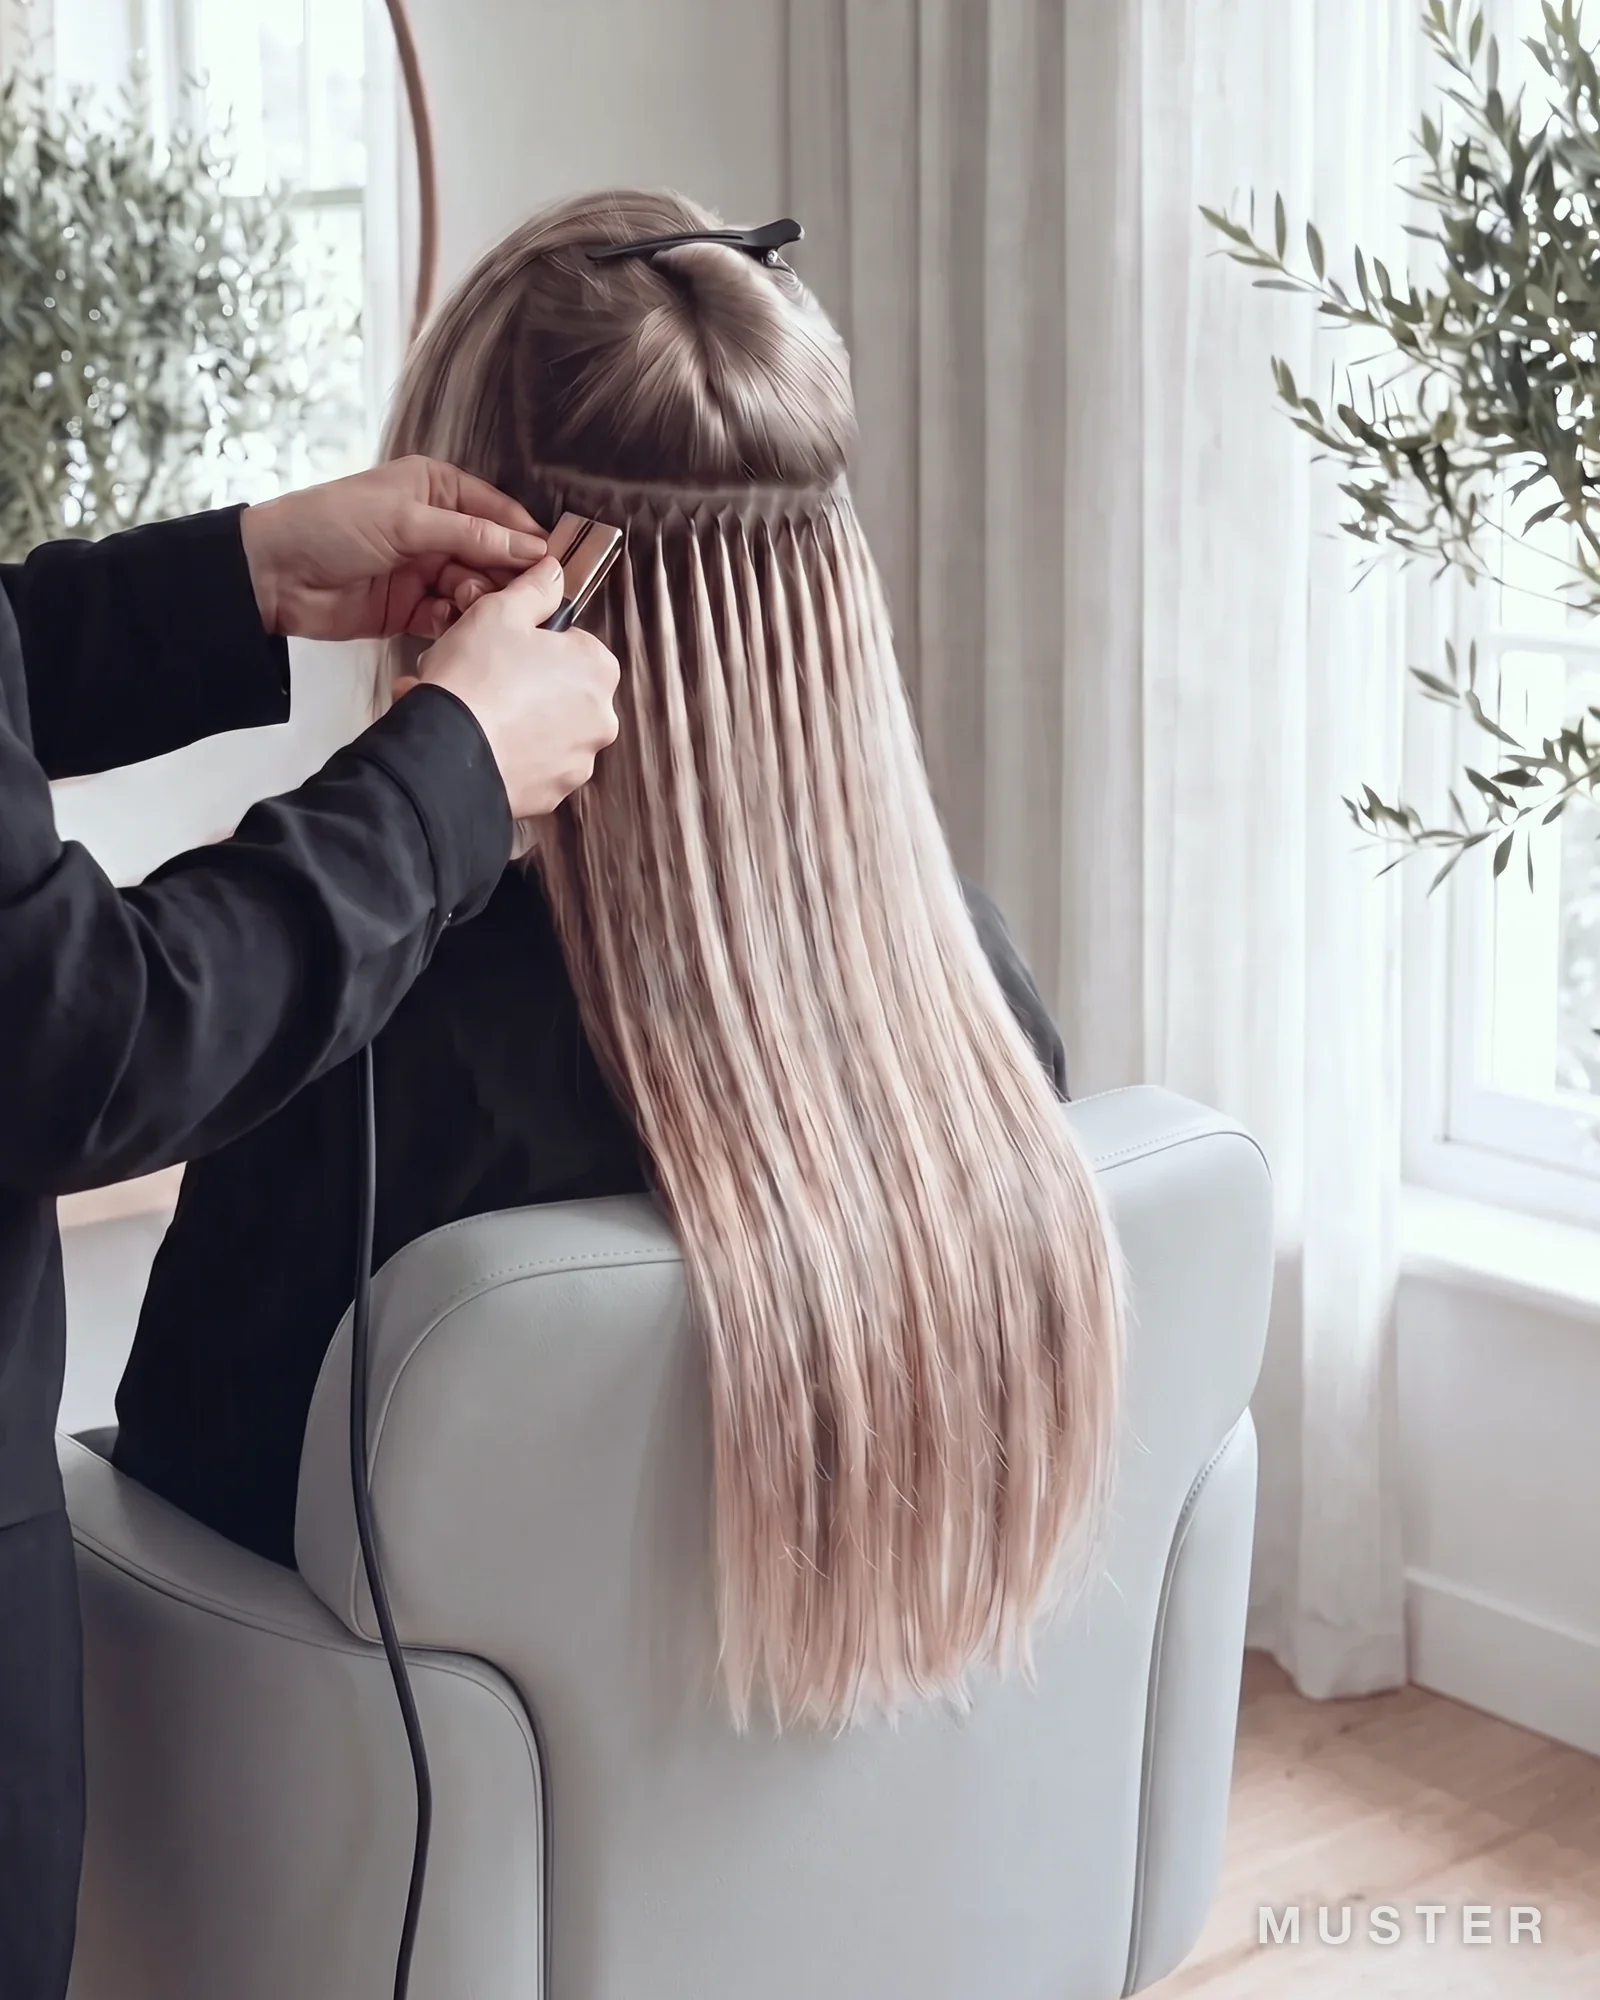
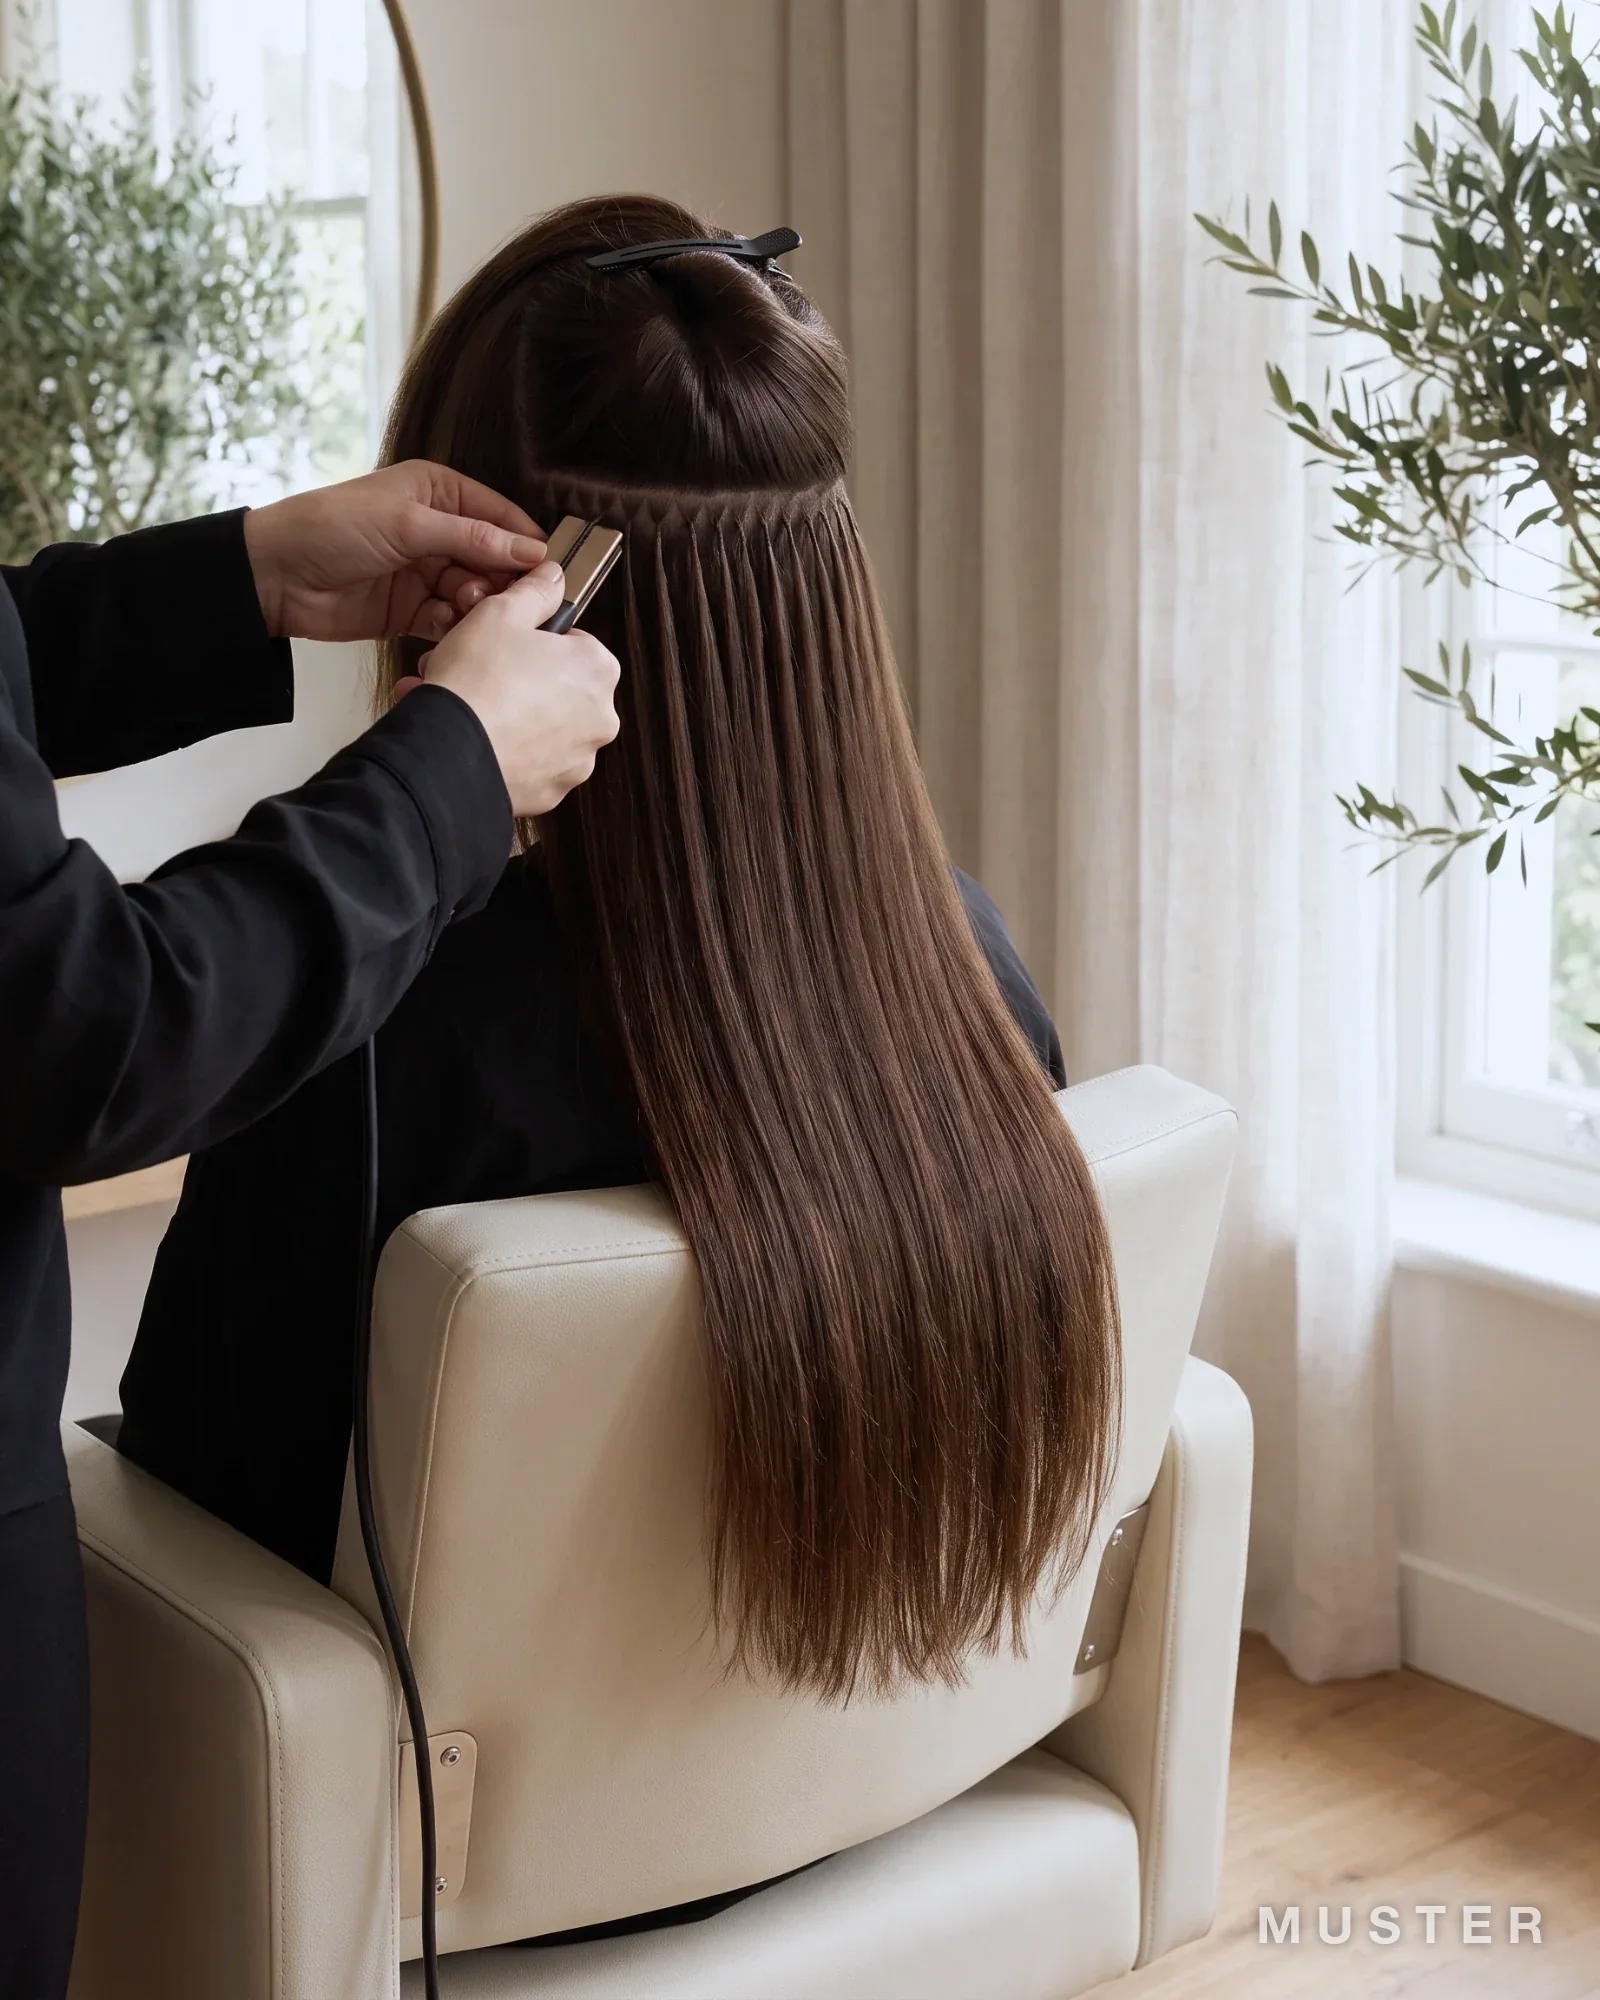
Update 26.10: Extensions-Bild v5, Button-Hover einheitlich

diff --git a/index.html b/index.html
@@ -1166,8 +1166,8 @@ dialog.legal.ds .todo{background:#f1f3f5;border-radius:4px;padding:0 4px;color:#
 .jubi span{font-size:14px;color:var(--muted)}
 /* Jubiläums-Streifen: nur grau, ohne Rosa (Julia 26.10) */
 .promo{background:linear-gradient(90deg,#eef1f4,#f8f9fa 55%,#eef1f4);border-top:1px solid #e4e8ec;border-bottom:1px solid #e4e8ec}
-/* Hero-Buttons: Hover weiß statt rosa, wie die Adresse (Julia 26.10) */
-.qb #qbgo:hover,.qb .qblink:hover{background:#fff!important;border-color:var(--champ)!important;box-shadow:0 12px 24px -14px rgba(40,45,50,.35)!important}
+/* Hero, Aktion, Senioren: Hover wie „Termin buchen“ oben (Julia 26.10) */
+.qb #qbgo:hover,.qb .qblink:hover,.promo .btn:hover,.sbtns .btn:hover{background:linear-gradient(180deg,#ffffff,#e6ecf1)!important;border-color:#8a96a2!important;color:var(--ink)!important;box-shadow:0 12px 24px -14px rgba(40,55,70,.45)!important}
 </style>
 <script type="application/ld+json">
 {"@context":"https://schema.org","@type":["HairSalon","BeautySalon"],
@@ -1274,7 +1274,7 @@ dialog.legal.ds .todo{background:#f1f3f5;border-radius:4px;padding:0 4px;color:#
         <button type="button" class="card svc reveal" data-open="farbe" aria-haspopup="dialog"><span class="ph" role="img" aria-label="Haare färben und Strähnen" style="background-image:url(m_color.webp?v=8)"><span class="wm" aria-hidden="true">Muster</span></span><span class="bd"><span class="st">Farbe &amp; Strähnen</span><span class="from">ab 39,90&nbsp;€</span><span class="more">Alle Preise &amp; mehr →</span></span></button>
         <button type="button" class="card svc reveal" data-open="braut" aria-haspopup="dialog"><span class="ph" role="img" aria-label="Braut mit Hochsteckfrisur" style="background-image:url(m_bridal.webp?v=7)"><span class="wm" aria-hidden="true">Muster</span></span><span class="bd"><span class="st">Braut &amp; Hochsteckfrisuren</span><span class="from">Beratung kostenlos</span><span class="more">Alle Preise &amp; mehr →</span></span></button>
         <button type="button" class="card svc reveal" data-open="keratin" aria-haspopup="dialog"><span class="ph" role="img" aria-label="Glattes, glänzendes Haar nach der Keratin-Glättung" style="background-image:url(m_extensions.webp?v=7)"><span class="wm" aria-hidden="true">Muster</span></span><span class="bd"><span class="st">Keratin-Glättung</span><span class="from">239&nbsp;€</span><span class="more">Alle Preise &amp; mehr →</span></span></button>
-        <button type="button" class="card svc reveal" data-open="ext" aria-haspopup="dialog"><span class="ph" role="img" aria-label="Tape-Extensions werden eingesetzt" style="background-image:url(m_svc_ext.webp?v=4)"><span class="wm" aria-hidden="true">Muster</span></span><span class="bd"><span class="st">Extensions</span><span class="from">ab 119&nbsp;€</span><span class="more">Alle Preise &amp; mehr →</span></span></button>
+        <button type="button" class="card svc reveal" data-open="ext" aria-haspopup="dialog"><span class="ph" role="img" aria-label="Tape-Extensions werden eingesetzt" style="background-image:url(m_svc_ext.webp?v=5)"><span class="wm" aria-hidden="true">Muster</span></span><span class="bd"><span class="st">Extensions</span><span class="from">ab 119&nbsp;€</span><span class="more">Alle Preise &amp; mehr →</span></span></button>
         <button type="button" class="card svc reveal" data-open="brauen" aria-haspopup="dialog"><span class="ph" role="img" aria-label="Make-up wird aufgetragen" style="background-image:url(m_svc_makeup.webp?v=5)"><span class="wm" aria-hidden="true">Muster</span></span><span class="bd"><span class="st">Brauen, Wimpern &amp; Make-up</span><span class="from">ab 9,50&nbsp;€</span><span class="more">Alle Preise &amp; mehr →</span></span></button>
         <button type="button" class="card svc reveal" data-open="makeup" aria-haspopup="dialog"><span class="ph" role="img" aria-label="Permanent-Make-up der Augenbrauen" style="background-image:url(m_svc_pmu.webp?v=1)"><span class="wm" aria-hidden="true">Muster</span></span><span class="bd"><span class="st">Permanent-Make-up</span><span class="from">ab 350&nbsp;€</span><span class="more">Alle Preise &amp; mehr →</span></span></button>
         <button type="button" class="card svc reveal" data-open="wax" aria-haspopup="dialog"><span class="ph" role="img" aria-label="Waxing, glatte Haut" style="background-image:url(m_svc_waxing_B.webp?v=4)"><span class="wm" aria-hidden="true">Muster</span></span><span class="bd"><span class="st">Waxing</span><span class="from">ab 25&nbsp;€</span><span class="more">Alle Preise &amp; mehr →</span></span></button>
@@ -1670,7 +1670,7 @@ const SV={
  farbe:{t:"Farbe & Strähnen",img:"color",v:8,cat:"Farbe",i:"Ansatz, Glossing, Nachfärben oder Strähnen. Wir färben mit GLYNT.",g:[["","Farbe"],["Angebote","Angebote",n=>/^Strähnen/.test(n)]]},
  braut:{t:"Braut & Hochsteckfrisuren",img:"bridal",v:7,cat:"Braut",i:"Kostenlose Beratung, Probefrisur und Probe-Make-up. Hochsteckfrisuren auch für Feiern und besondere Anlässe.",g:[["Braut","Braut"],["Hochsteckfrisur","Styling",n=>n==="Hochsteckfrisur"]]},
  keratin:{t:"Keratin-Glättung",img:"extensions",v:7,cat:"Keratin & Extensions",svc:"Keratin-Glättung Komplettpaket",i:"Seidig glattes, glänzendes Haar. Dafür setzen wir auf bewährte Premium-Produkte, zum Beispiel von Cocochoco.",g:[["","Keratin & Extensions",n=>/^Keratin/.test(n)]]},
- ext:{t:"Extensions",img:"svc_ext",v:4,cat:"Keratin & Extensions",i:"Mehr Länge und Fülle mit Bonding-, Tape- und Nanoring-Extensions. Für Tape-Extensions arbeiten wir mit FLAUNT by Paul Mitchell, in drei Längen. Wir beraten euch gern, welche Methode zu eurem Haar passt.",g:[["","Keratin & Extensions",n=>!/^Keratin/.test(n)]]},
+ ext:{t:"Extensions",img:"svc_ext",v:5,cat:"Keratin & Extensions",i:"Mehr Länge und Fülle mit Bonding-, Tape- und Nanoring-Extensions. Für Tape-Extensions arbeiten wir mit FLAUNT by Paul Mitchell, in drei Längen. Wir beraten euch gern, welche Methode zu eurem Haar passt.",g:[["","Keratin & Extensions",n=>!/^Keratin/.test(n)]]},
  brauen:{t:"Brauen, Wimpern & Make-up",img:"svc_makeup",v:5,cat:"Beauty",i:"Brauen zupfen, auch in Fadentechnik, Brauen und Wimpern färben. Make-up für den Tag und für den Abend.",g:[["Brauen & Wimpern","Beauty",n=>/^(Augenbrauen|Wimpern|Kombi)/.test(n)],["Gesicht","Beauty",n=>/^Gesicht/.test(n)],["Make-up","Beauty",n=>/Make-up$/.test(n)&&!/Permanent/.test(n)]]},
  makeup:{t:"Permanent-Make-up",img:"svc_pmu",v:1,cat:"Beauty",i:"Augenbrauen und Lippen, die lange schön bleiben. Jede Behandlung hat zwei Sitzungen.",g:[["Augenbrauen","Beauty",n=>/^Permanent-Make-up Augenbrauen/.test(n)],["Lippen","Beauty",n=>/^Permanent-Make-up Lippen/.test(n)]]},
  wax:{t:"Waxing",img:"svc_waxing_B",v:4,cat:"Beauty",i:"Professionelle Haarentfernung für ein gepflegtes und glattes Hautgefühl.",g:[["","Beauty",n=>/^Waxing/.test(n)]]},
